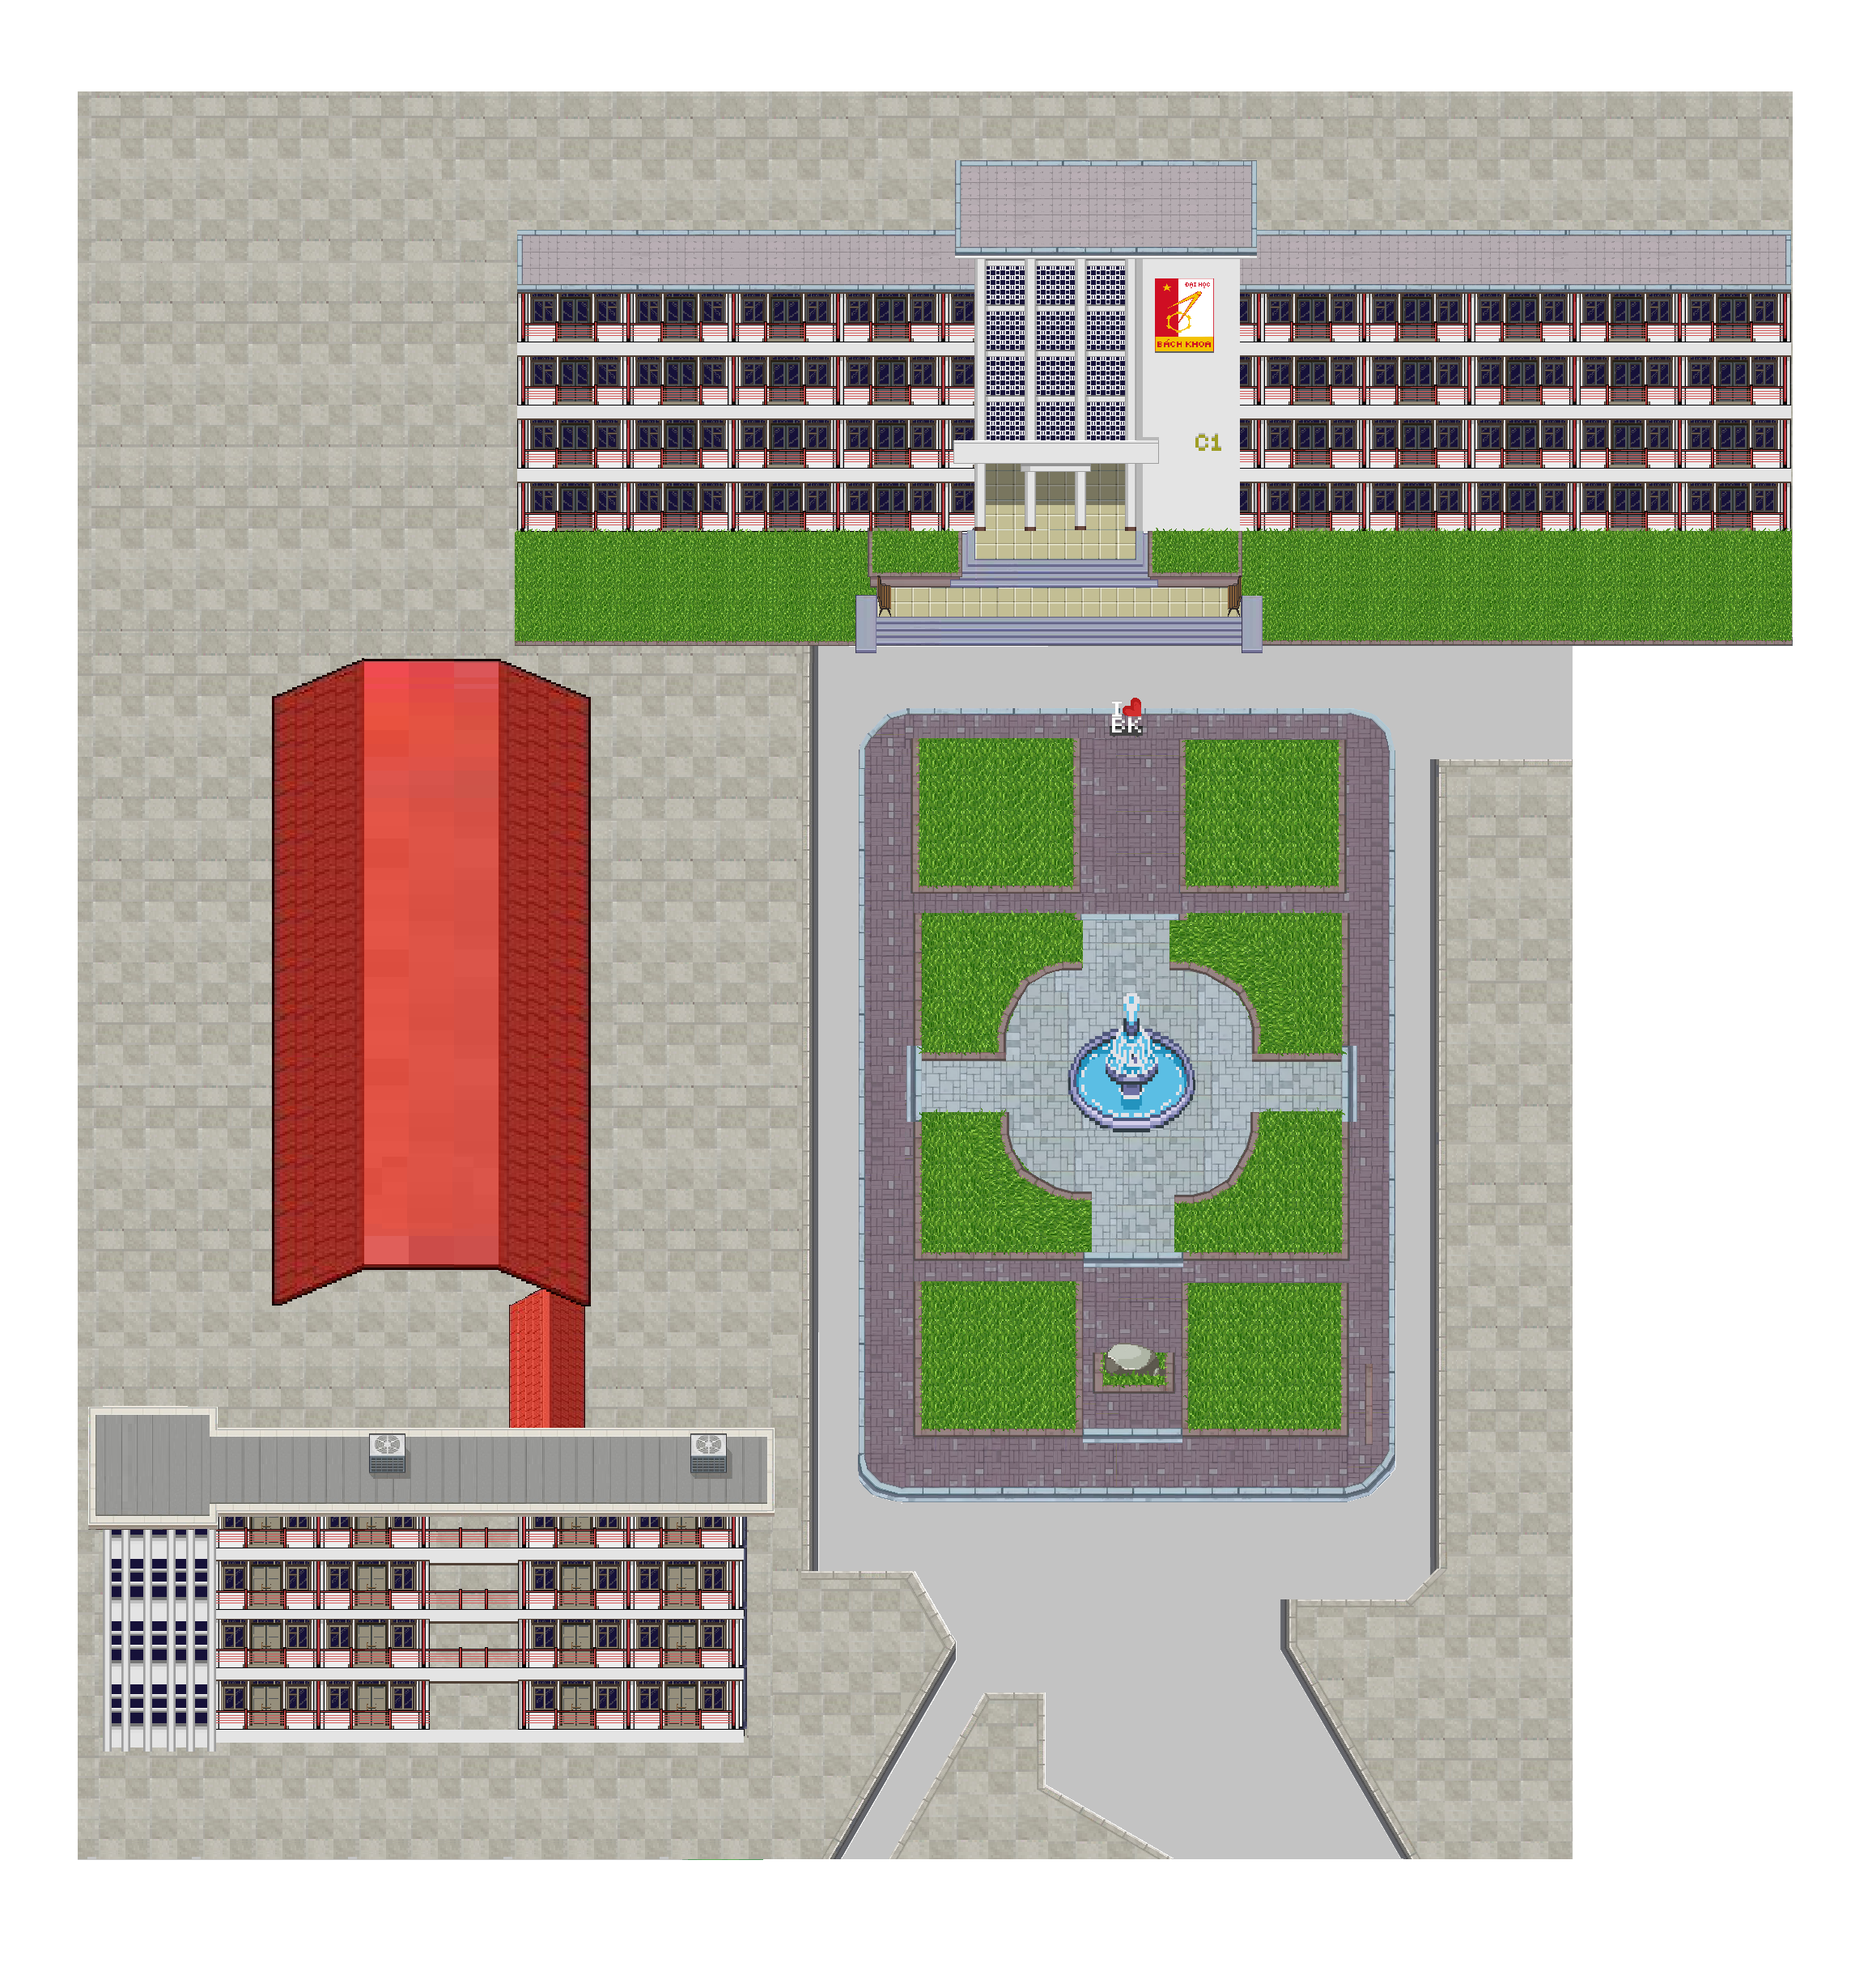
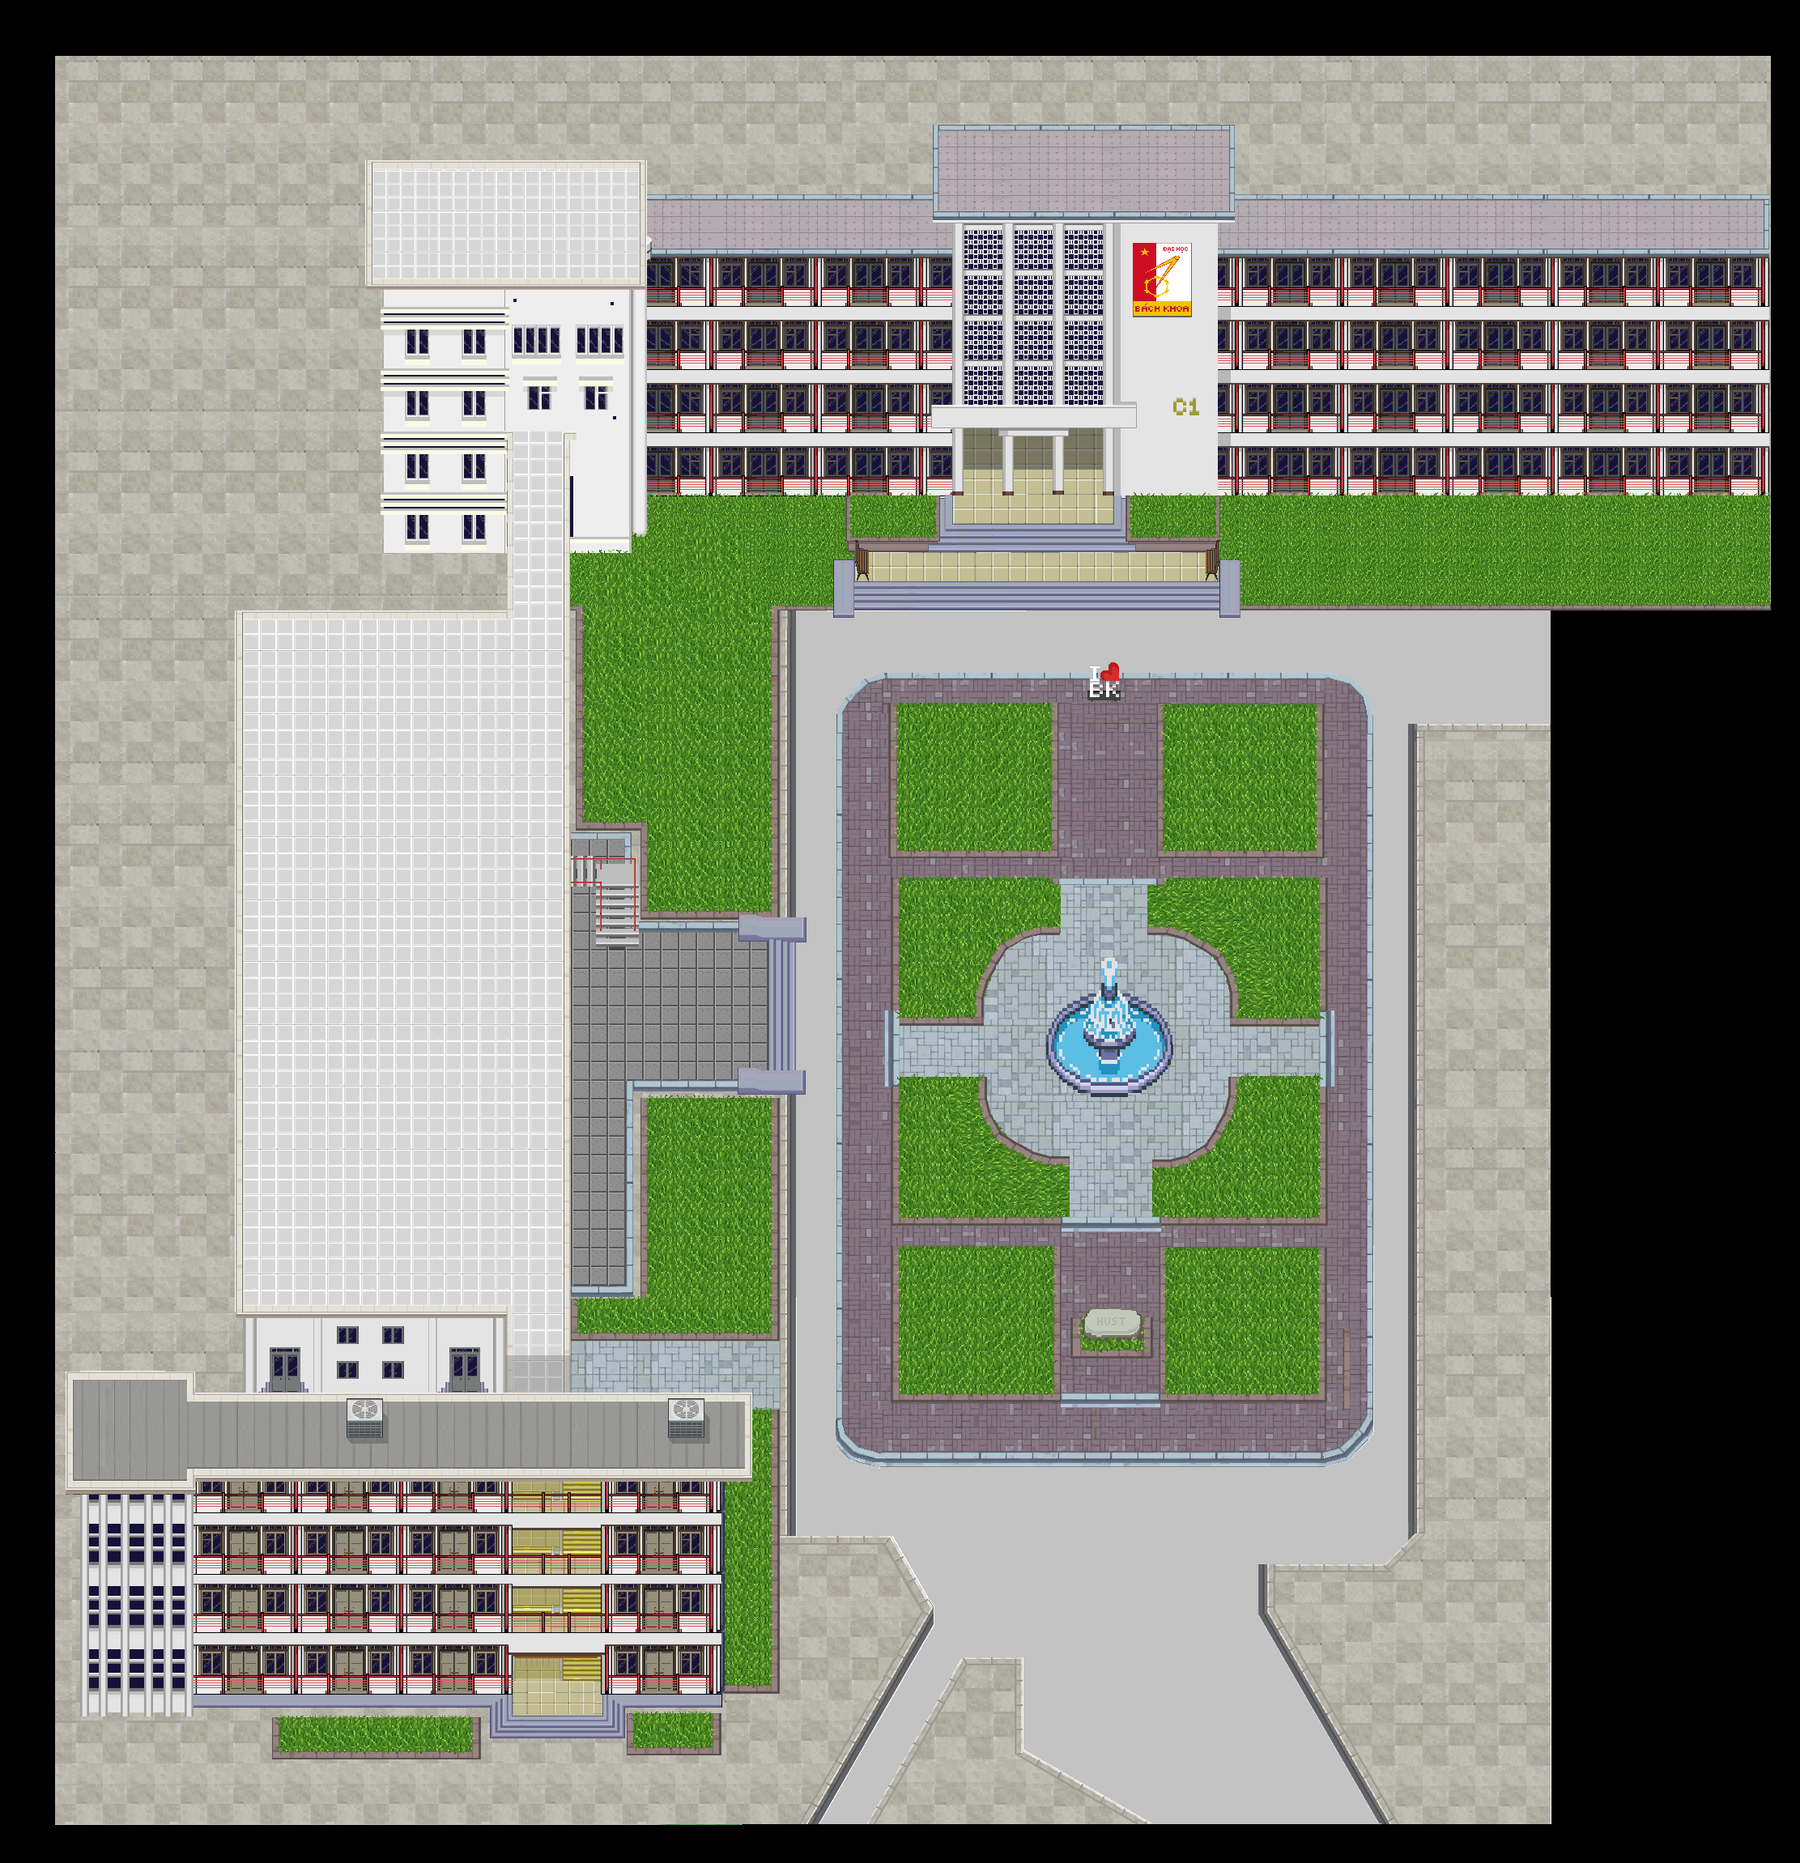
Section 1 completed

diff --git a/src/main/GamePanel.java b/src/main/GamePanel.java
@@ -72,6 +72,8 @@ public class GamePanel extends JPanel implements Runnable {
     public MouseManager mouseManager = new MouseManager(this);
     public Map currentMap = null; // map hien tai
     Section_2 section_2 = new Section_2(this);
+    Section_1 section_1 = new Section_1(this);
+
 
     KeyboardManager keyboardManager = new KeyboardManager();
     public UI ui = new UI(this);
@@ -160,6 +162,14 @@ public class GamePanel extends JPanel implements Runnable {
                 newGame();
                 break;
             }
+
+            case 3: {
+                if (Main.GameState.empty() || !Main.topGameState().equals("GamePlay"))
+                    Main.pushGameState("GamePlay");
+                currentMap = section_1;
+                break;
+            }
+
             case 4: {
                 if (Main.GameState.empty() || !Main.topGameState().equals("GamePlay"))
                     Main.pushGameState("GamePlay");
@@ -352,7 +362,8 @@ public class GamePanel extends JPanel implements Runnable {
                 break;
             }
             case 3: {
-                section_selection.operation(g);
+                setSizeMap(64, 65);
+                section_1.draw(g2);
                 break;
             }
             case 4: {
@@ -403,6 +414,7 @@ public class GamePanel extends JPanel implements Runnable {
                 setSizeMap(36, 23);
                 myRoom.draw(g2);
             }
+
             player.draw(g2);
             ui.draw(g2);
             inventory.draw(g2);

diff --git a/src/area/Section_1.java b/src/area/Section_1.java
@@ -1,0 +1,46 @@
+package area;
+
+import main.GamePanel;
+import map.Map;
+import tile.Tile;
+
+import java.awt.*;
+import java.awt.image.BufferedImage;
+import javax.imageio.ImageIO;
+import java.io.*;
+
+
+public class Section_1 extends Map {
+    Tile background;
+    GamePanel gamePanel;
+
+
+    public Section_1(GamePanel gamePanel) {
+        this.gamePanel = gamePanel;
+
+        TileLoad();
+    }
+
+    private void TileLoad() {
+        background = new Tile();
+        BufferedImage bacImage;
+        try {
+            bacImage = ImageIO.read(new FileInputStream("res/tile/Section1_demo.png"));
+            background.image = bacImage;
+            background.setWidth(bacImage.getWidth() );
+            background.setHeight(bacImage.getHeight() );
+        } catch (IOException e) {
+            e.printStackTrace();
+        }
+        
+
+    }
+
+    // Phương thức vẽ map
+    public void draw(Graphics2D g2) {
+
+        gamePanel.tileManager.draw(g2, background);
+        // for (int i = 0; i < numTileContainer; ++i)
+        //     gamePanel.tileManager.draw(g2, tileContainer[i]);
+    }
+}

diff --git a/src/tile/section_tile.java b/src/tile/section_tile.java
@@ -1,0 +1,39 @@
+package tile;
+
+import javax.print.DocFlavor.STRING;
+import java.awt.image.BufferedImage;
+import javax.imageio.ImageIO;
+import java.io.*;
+import main.GamePanel;
+
+public class section_tile extends Tile {
+    public int x,y, w, h;
+    GamePanel gamePanel;
+    public section_tile(GamePanel gamePanel, int x, int y, String name, String type, int w, int h, String image_path) {
+        this.x = x;
+        this.y = y;
+        this.w = w;
+        this.h = h;
+
+        this.gamePanel=gamePanel;
+        Name = "Table Classroom";
+        Type = "Obstacle";
+        try {
+            image = ImageIO.read(new FileInputStream(image_path));
+        } catch (IOException e) {
+            e.printStackTrace();
+        }
+        BoundingBox();
+    }
+
+    public void BoundingBox() {
+        setLeftX(x * gamePanel.scale);
+        setTopY(y * gamePanel.scale);
+        setRightX((x+20) * gamePanel.scale);
+        setBottomY((y+46) * gamePanel.scale);
+        setWidth(20 * gamePanel.scale);
+        setHeight(46 * gamePanel.scale);
+    }
+
+}
+

diff --git a/src/tile/Tile.java b/src/tile/Tile.java
@@ -30,6 +30,8 @@ public class Tile{
         this.image = image;
     }
 
+    
+
     public int getLeftX() {
         return LeftX;
     }
